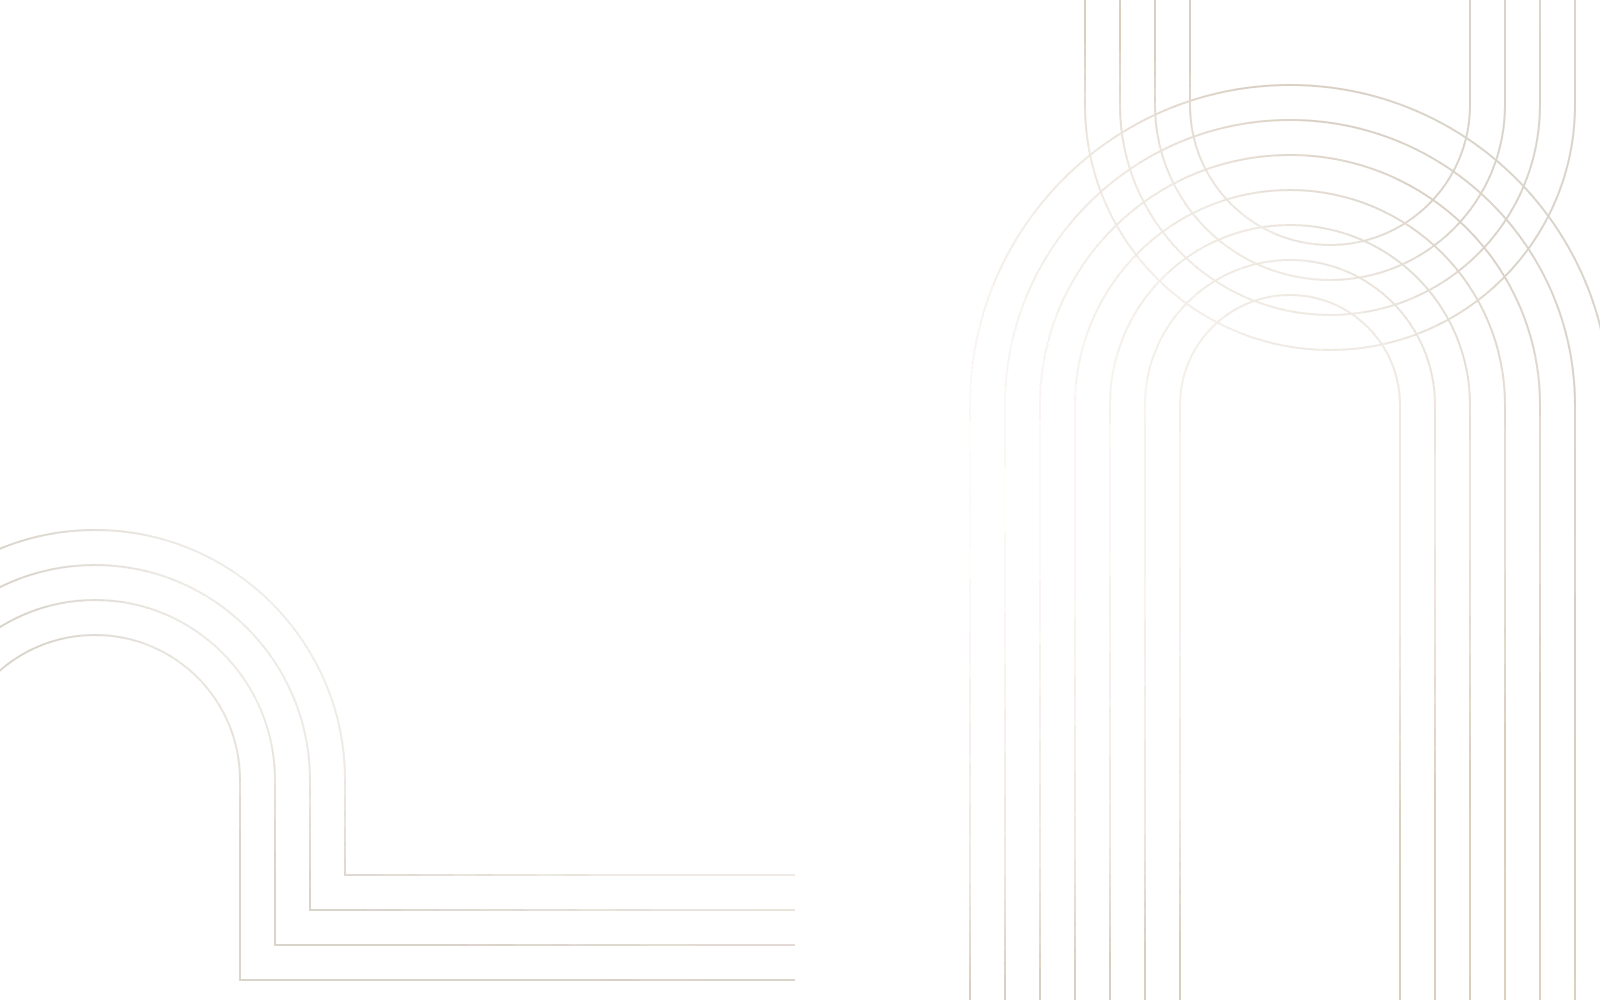
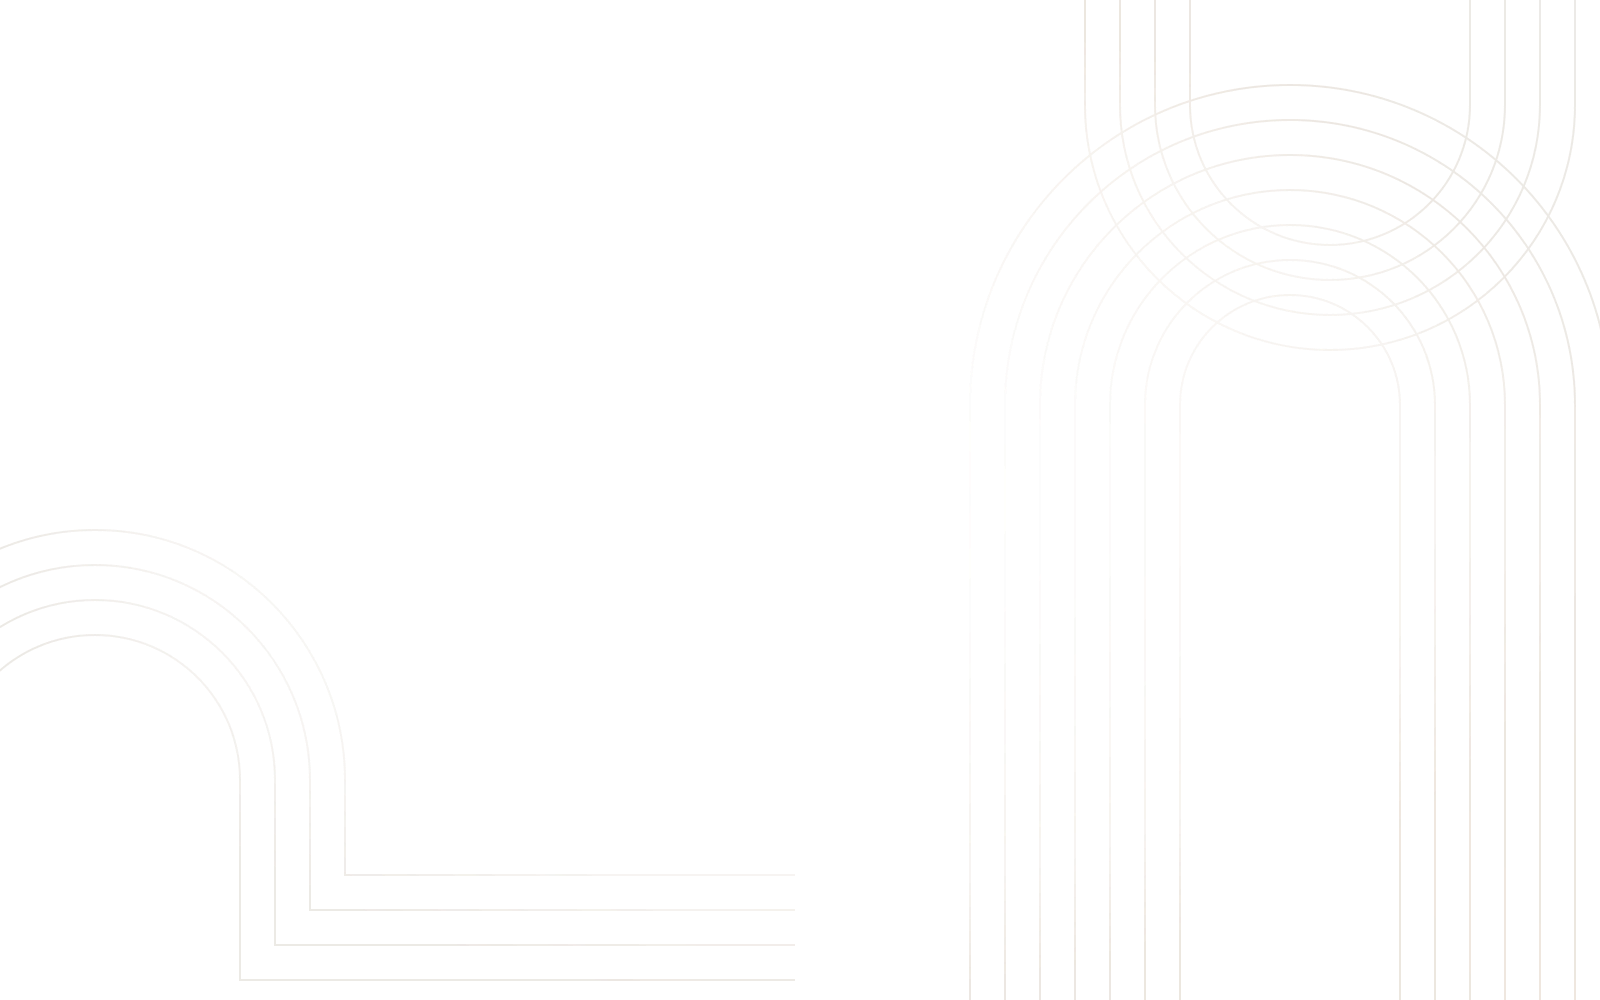
fix(texture): dash 底纹强度降到 maxA=45（90 太明显）
90/255 时全屏观感过重（用户实测：太明显）。改为从原图重新归一（不是从 90 再降，避免二次量化）：bg-dash 25→45（×1.80）、bg-soft-dash 17→45（×2.65），两者体积 29174 / 24856。

纹理淡下来后仍保留 dash tertiary #908072→#9b8d80：实测在 45 档上它仍被压到 4.43:1，抬后 4.78；这是这条纹理的必然代价，不是多余改动。

门禁：verify:texture 通过（最大侵蚀回到 vintage-paper 1.08），verify:contrast 681 组无回退，npm test 全绿。真机复核 opacity=0.70、纹理可见但明显变淡。

diff --git a/CHANGELOG.md b/CHANGELOG.md
@@ -25,12 +25,12 @@
 亮色看不到纯粹是 alpha 太低）② 不是面板层压住（`::before` 在 `_centerCol` 上，z-index 0，实测可见）。
 
 **修法（本次只做 dash，其余 23 张按用户要求暂不动）**：
-alpha 逐张归一到 `maxA = 90`，无损 WebP 重存：
+alpha 逐张归一（最终取 `maxA = 45`，先试了 90 太明显，用户否掉），无损 WebP 重存：
 
 | 文件 | maxA | 倍数 | 字节 |
 |---|---|---|---|
-| `bg-dash.webp` | 25 → 90 | ×3.60 | 29152 → 29122 |
-| `bg-soft-dash.webp` | 17 → 90 | ×5.29 | 24842 → 24776 |
+| `bg-dash.webp` | 25 → 45 | ×1.80 | 29152 → 29174 |
+| `bg-soft-dash.webp` | 17 → 45 | ×2.65 | 24842 → 24856 |
 
 **门禁抓到的真问题（本次修掉）**：纹理变可见后，dash 暗色 tertiary 底色 4.85:1 被压到 **3.91:1**，
 破 AA。三级文字本来只比达标线高 0.35，没有余量容纳「看得见的纹理」。
